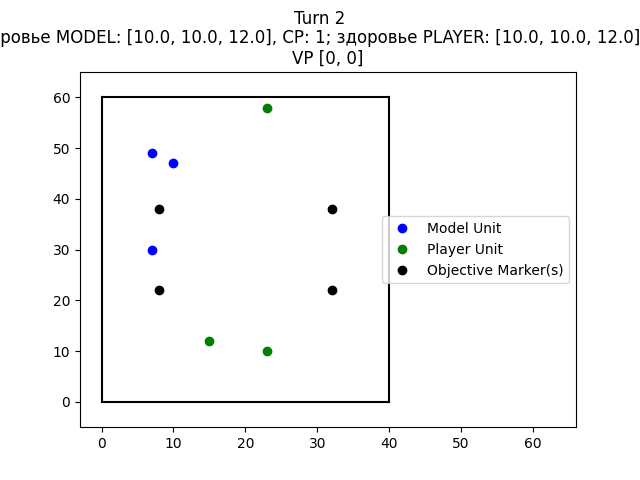
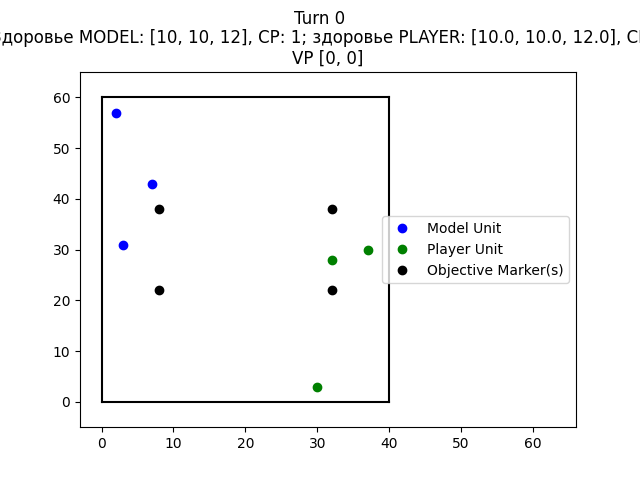
123

diff --git a/viewer/scene.py b/viewer/scene.py
@@ -260,7 +260,12 @@ class MapScene(QtWidgets.QGraphicsScene):
         active_key = (self._active_unit_side, self._active_unit_id)
         if not active_key[0] or active_key[1] is None:
             return
-        if self._hovered_unit_key != active_key and self._selected_unit_key != active_key:
+        force_active = self._should_show_movement() or self._should_show_shooting()
+        if (
+            self._hovered_unit_key != active_key
+            and self._selected_unit_key != active_key
+            and not force_active
+        ):
             return
         unit = self._state_unit(active_key)
         if unit is None:

diff --git a/LOGS_FOR_AGENTS.md b/LOGS_FOR_AGENTS.md
@@ -186,3 +186,60 @@ VP MODEL: 0, VP PLAYER: 0
 CP MODEL: 1, CP PLAYER: 2
 VP MODEL: 0, VP PLAYER: 0
 
+2026-01-26 17:08:26 | --- ФАЗА КОМАНДОВАНИЯ ---
+2026-01-26 17:08:26 | --- ФАЗА КОМАНДОВАНИЯ ---
+2026-01-26 17:08:26 | [MODEL] Only War: end of Command phase -> controlled=0, gained=0, VP: 0 -> 0
+2026-01-26 17:08:26 | --- ФАЗА ДВИЖЕНИЯ ---
+2026-01-26 17:08:26 | --- ФАЗА ДВИЖЕНИЯ ---
+2026-01-26 17:08:26 | [MODEL] Unit 21 — Necrons Necron Warriors (x10 моделей): Позиция до: (30, 0). Выбор: right, advance=да, бросок=4, макс=9, distance=7
+2026-01-26 17:08:26 | [MODEL] Unit 21 — Necrons Necron Warriors (x10 моделей): Позиция после: (30, 7)
+2026-01-26 17:08:26 | [PLAYER][MOVEMENT] Overwatch невозможен: нет доступных стреляющих юнитов.
+2026-01-26 17:08:26 | [MODEL] Unit 22 — Necrons Necron Warriors (x10 моделей): Позиция до: (47, 3). Выбор: right, advance=да, бросок=2, макс=7, distance=7
+2026-01-26 17:08:26 | [MODEL] Unit 22 — Necrons Necron Warriors (x10 моделей): Позиция после: (47, 10)
+2026-01-26 17:08:26 | [PLAYER][MOVEMENT] Триггер Overwatch: цель переместилась. Цель: Unit 22 — Necrons Necron Warriors (x10 моделей).
+2026-01-26 17:08:26 | [MODEL] Unit 23 — Necrons Canoptek Scarab Swarms (x3 моделей): Позиция до: (49, 0). Выбор: right, advance=нет, distance=7
+2026-01-26 17:08:26 | [MODEL] Unit 23 — Necrons Canoptek Scarab Swarms (x3 моделей): Позиция после: (49, 7)
+2026-01-26 17:08:26 | [PLAYER][MOVEMENT] Триггер Overwatch: цель переместилась. Цель: Unit 23 — Necrons Canoptek Scarab Swarms (x3 моделей).
+2026-01-26 17:08:26 | --- ФАЗА СТРЕЛЬБЫ ---
+2026-01-26 17:08:26 | --- ФАЗА СТРЕЛЬБЫ ---
+2026-01-26 17:08:26 | [MODEL] Unit 21 — Necrons Necron Warriors (x10 моделей): Advance без Assault — стрельба пропущена.
+2026-01-26 17:08:26 | [MODEL] Unit 22 — Necrons Necron Warriors (x10 моделей): Advance без Assault — стрельба пропущена.
+2026-01-26 17:08:26 | [MODEL] Unit 23 — Necrons Canoptek Scarab Swarms (x3 моделей): Нет дальнобойного оружия, стрельба пропущена.
+2026-01-26 17:08:26 | --- ФАЗА ЧАРДЖА ---
+2026-01-26 17:08:26 | --- ФАЗА ЧАРДЖА ---
+2026-01-26 17:08:26 | [MODEL] Unit 21 — Necrons Necron Warriors (x10 моделей): Advance — чардж невозможен.
+2026-01-26 17:08:26 | [MODEL] Unit 22 — Necrons Necron Warriors (x10 моделей): Advance — чардж невозможен.
+2026-01-26 17:08:26 | [MODEL] Unit 23 — Necrons Canoptek Scarab Swarms (x3 моделей): Нет целей в 12", чардж пропущен.
+2026-01-26 17:08:26 | [MODEL] Чардж: нет доступных целей
+2026-01-26 17:08:26 | --- ФАЗА БОЯ ---
+2026-01-26 17:08:26 | --- ФАЗА БОЯ ---
+2026-01-26 17:08:26 | [MODEL] Ближний бой: нет доступных атак
+2026-01-26 17:08:26 | === КОНЕЦ БОЕВОГО РАУНДА 1 ===
+2026-01-26 17:08:26 | Итерация 0 завершена с наградой tensor([0], device='cuda:0'), здоровье игрока [10.0, 10.0, 12.0], здоровье модели [10.0, 10.0, 12.0]
+2026-01-26 17:08:30 | Roll-off Attacker/Defender: enemy=1 model=3 -> attacker=model
+2026-01-26 17:08:30 | Юниты: [('Necron Warriors', '5', 10), ('Necron Warriors', '6', 10), ('Canoptek Scarab Swarms', '7', 3)]
+2026-01-26 17:08:30 | [DEPLOY] Order: model first, alternating
+2026-01-26 17:08:30 | [DEPLOY][MODEL] Unit 21 — Necrons Necron Warriors (x10 моделей) -> (43,7)
+2026-01-26 17:08:30 | [DEPLOY][ENEMY] Unit 11 — Necrons Necron Warriors (x10 моделей) -> (28,32)
+2026-01-26 17:08:30 | [DEPLOY][MODEL] Unit 22 — Necrons Necron Warriors (x10 моделей) -> (31,3)
+2026-01-26 17:08:30 | [DEPLOY][ENEMY] Unit 12 — Necrons Necron Warriors (x10 моделей) -> (30,37)
+2026-01-26 17:08:30 | [DEPLOY][MODEL] Unit 23 — Necrons Canoptek Scarab Swarms (x3 моделей) -> (57,2)
+2026-01-26 17:08:30 | [DEPLOY][ENEMY] Unit 13 — Necrons Canoptek Scarab Swarms (x3 моделей) -> (3,30)
+2026-01-26 17:08:30 | [MISSION Only War] Post-deploy: currently no post-deploy units supported
+2026-01-26 17:08:30 | 
+Инструкции:
+Игрок управляет юнитами, начинающимися с 1 (т.е. 11, 12 и т.д.).
+Модель управляет юнитами, начинающимися с 2 (т.е. 21, 22 и т.д.).
+
+2026-01-26 17:08:30 | {'model health': [10, 10, 12], 'player health': [10, 10, 12], 'modelCP': 0, 'playerCP': 0, 'in attack': [[0, 0], [0, 0], [0, 0]], 'model VP': 0, 'player VP': 0, 'mission': 'Only War', 'turn': 1, 'battle round': 1, 'active side': 'enemy', 'phase': 'command'}
+2026-01-26 17:08:30 | Здоровье MODEL: [10, 10, 12], здоровье PLAYER: [10, 10, 12]
+CP MODEL: 0, CP PLAYER: 0
+VP MODEL: 0, VP PLAYER: 0
+
+2026-01-26 17:08:32 | === БОЕВОЙ РАУНД 1 ===
+2026-01-26 17:08:32 | --- ХОД PLAYER ---
+2026-01-26 17:08:32 | --- ФАЗА КОМАНДОВАНИЯ ---
+2026-01-26 17:08:32 | [ENEMY] Only War: end of Command phase -> controlled=0, gained=0, VP: 0 -> 0
+2026-01-26 17:08:32 | --- ФАЗА ДВИЖЕНИЯ ---
+2026-01-26 17:08:42 | Бросок 1D6 на Advance...
+2026-01-26 17:08:43 | Бросок: 1
